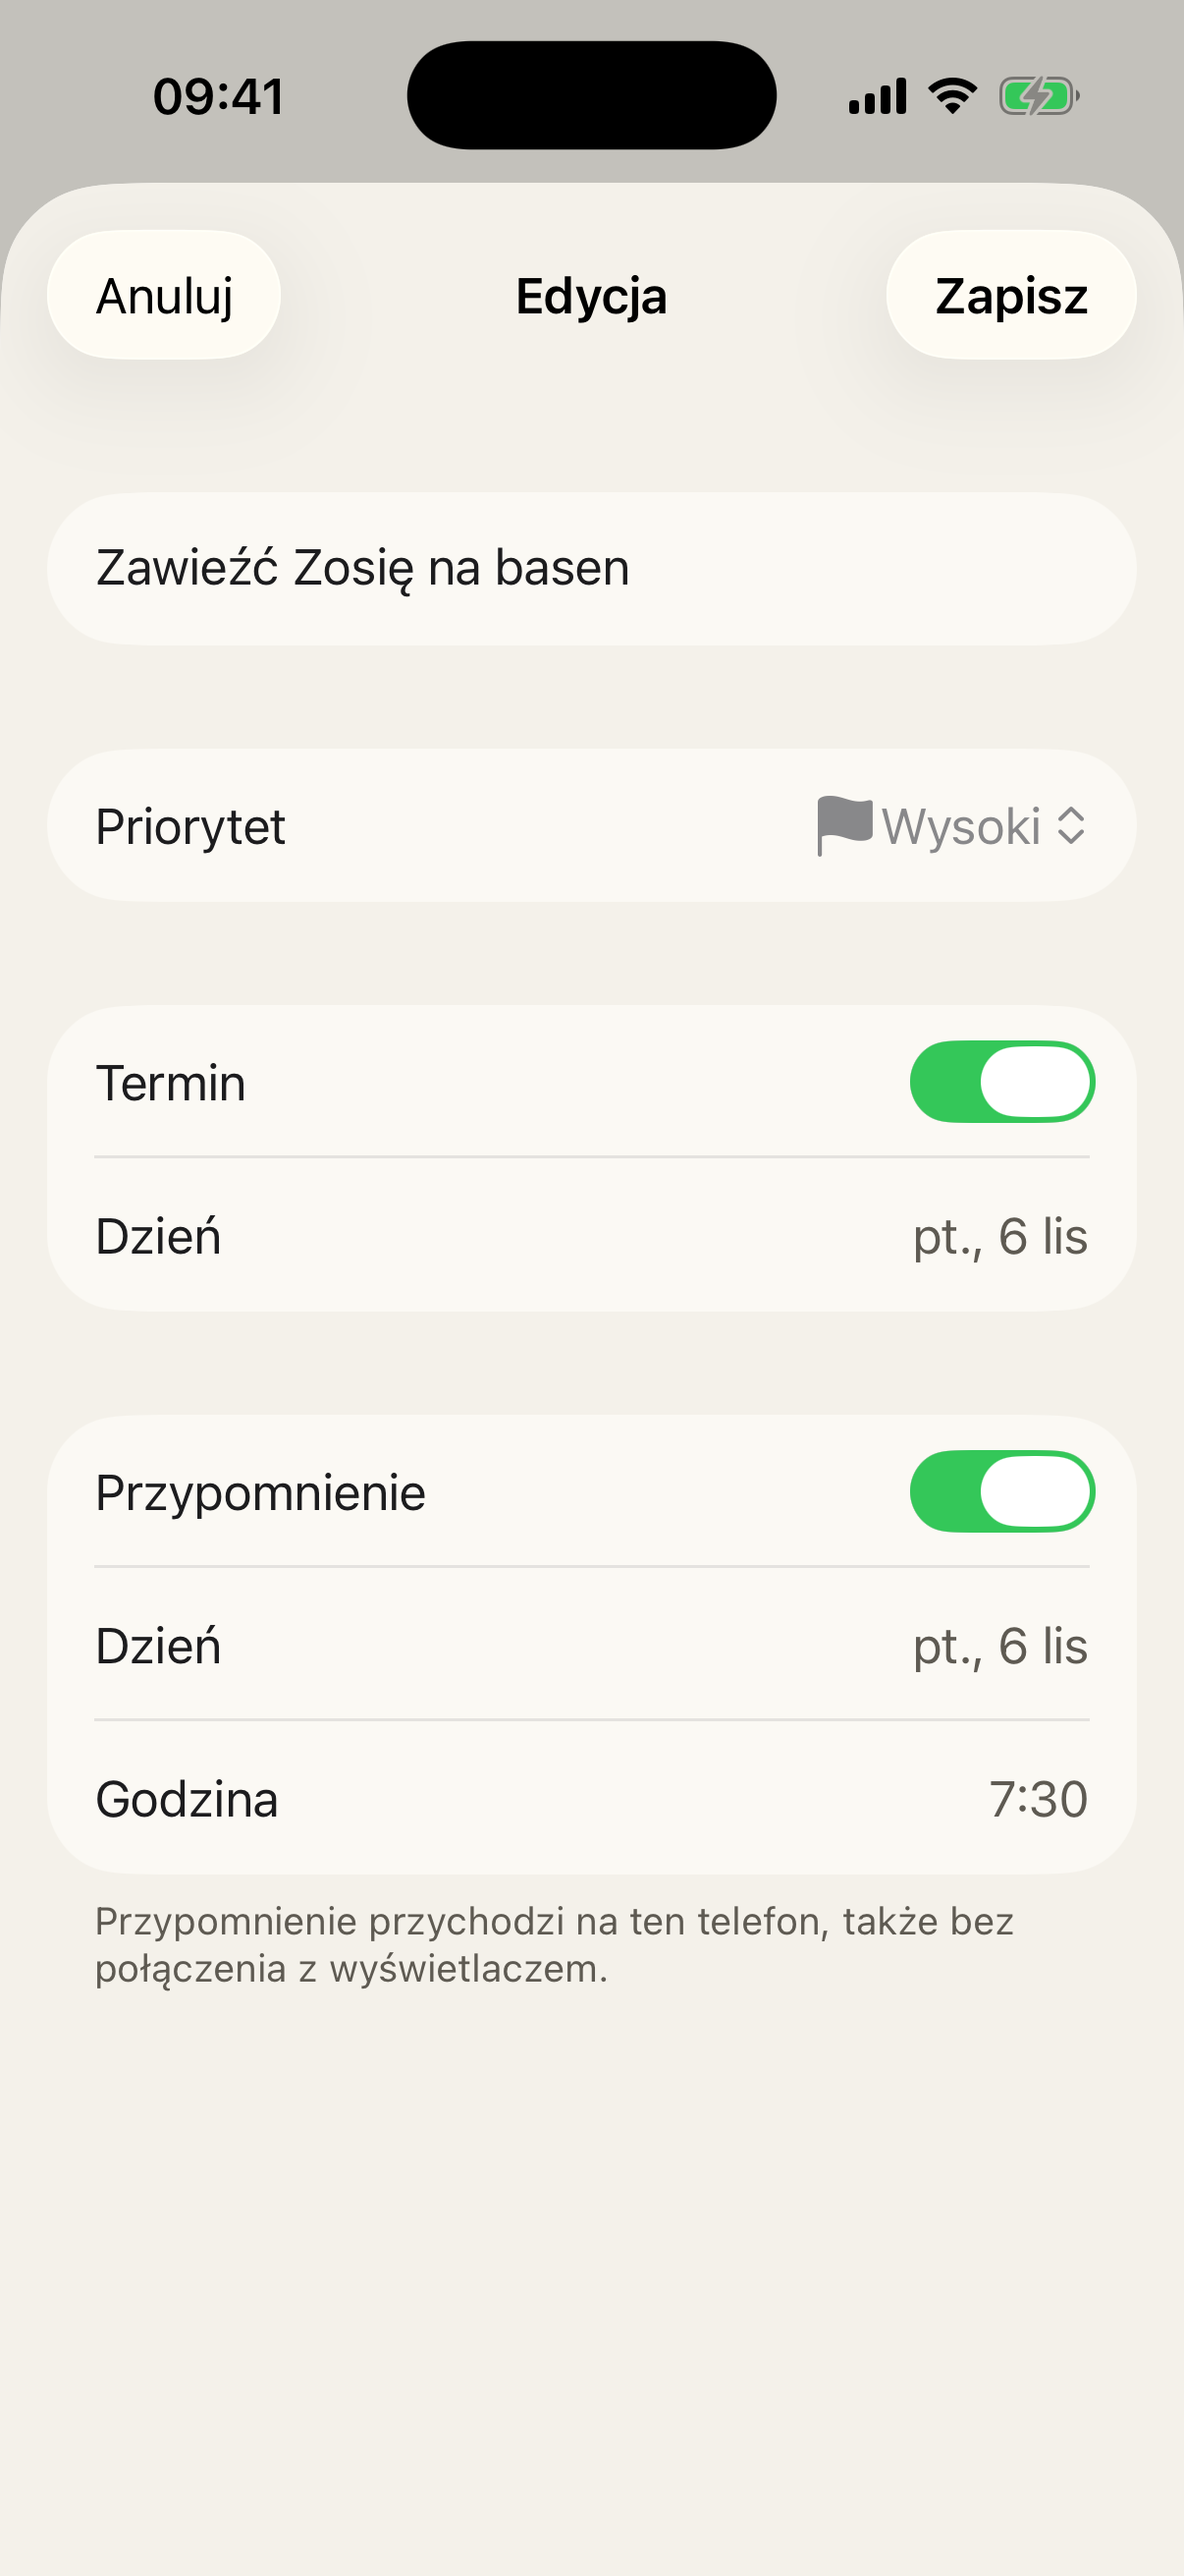
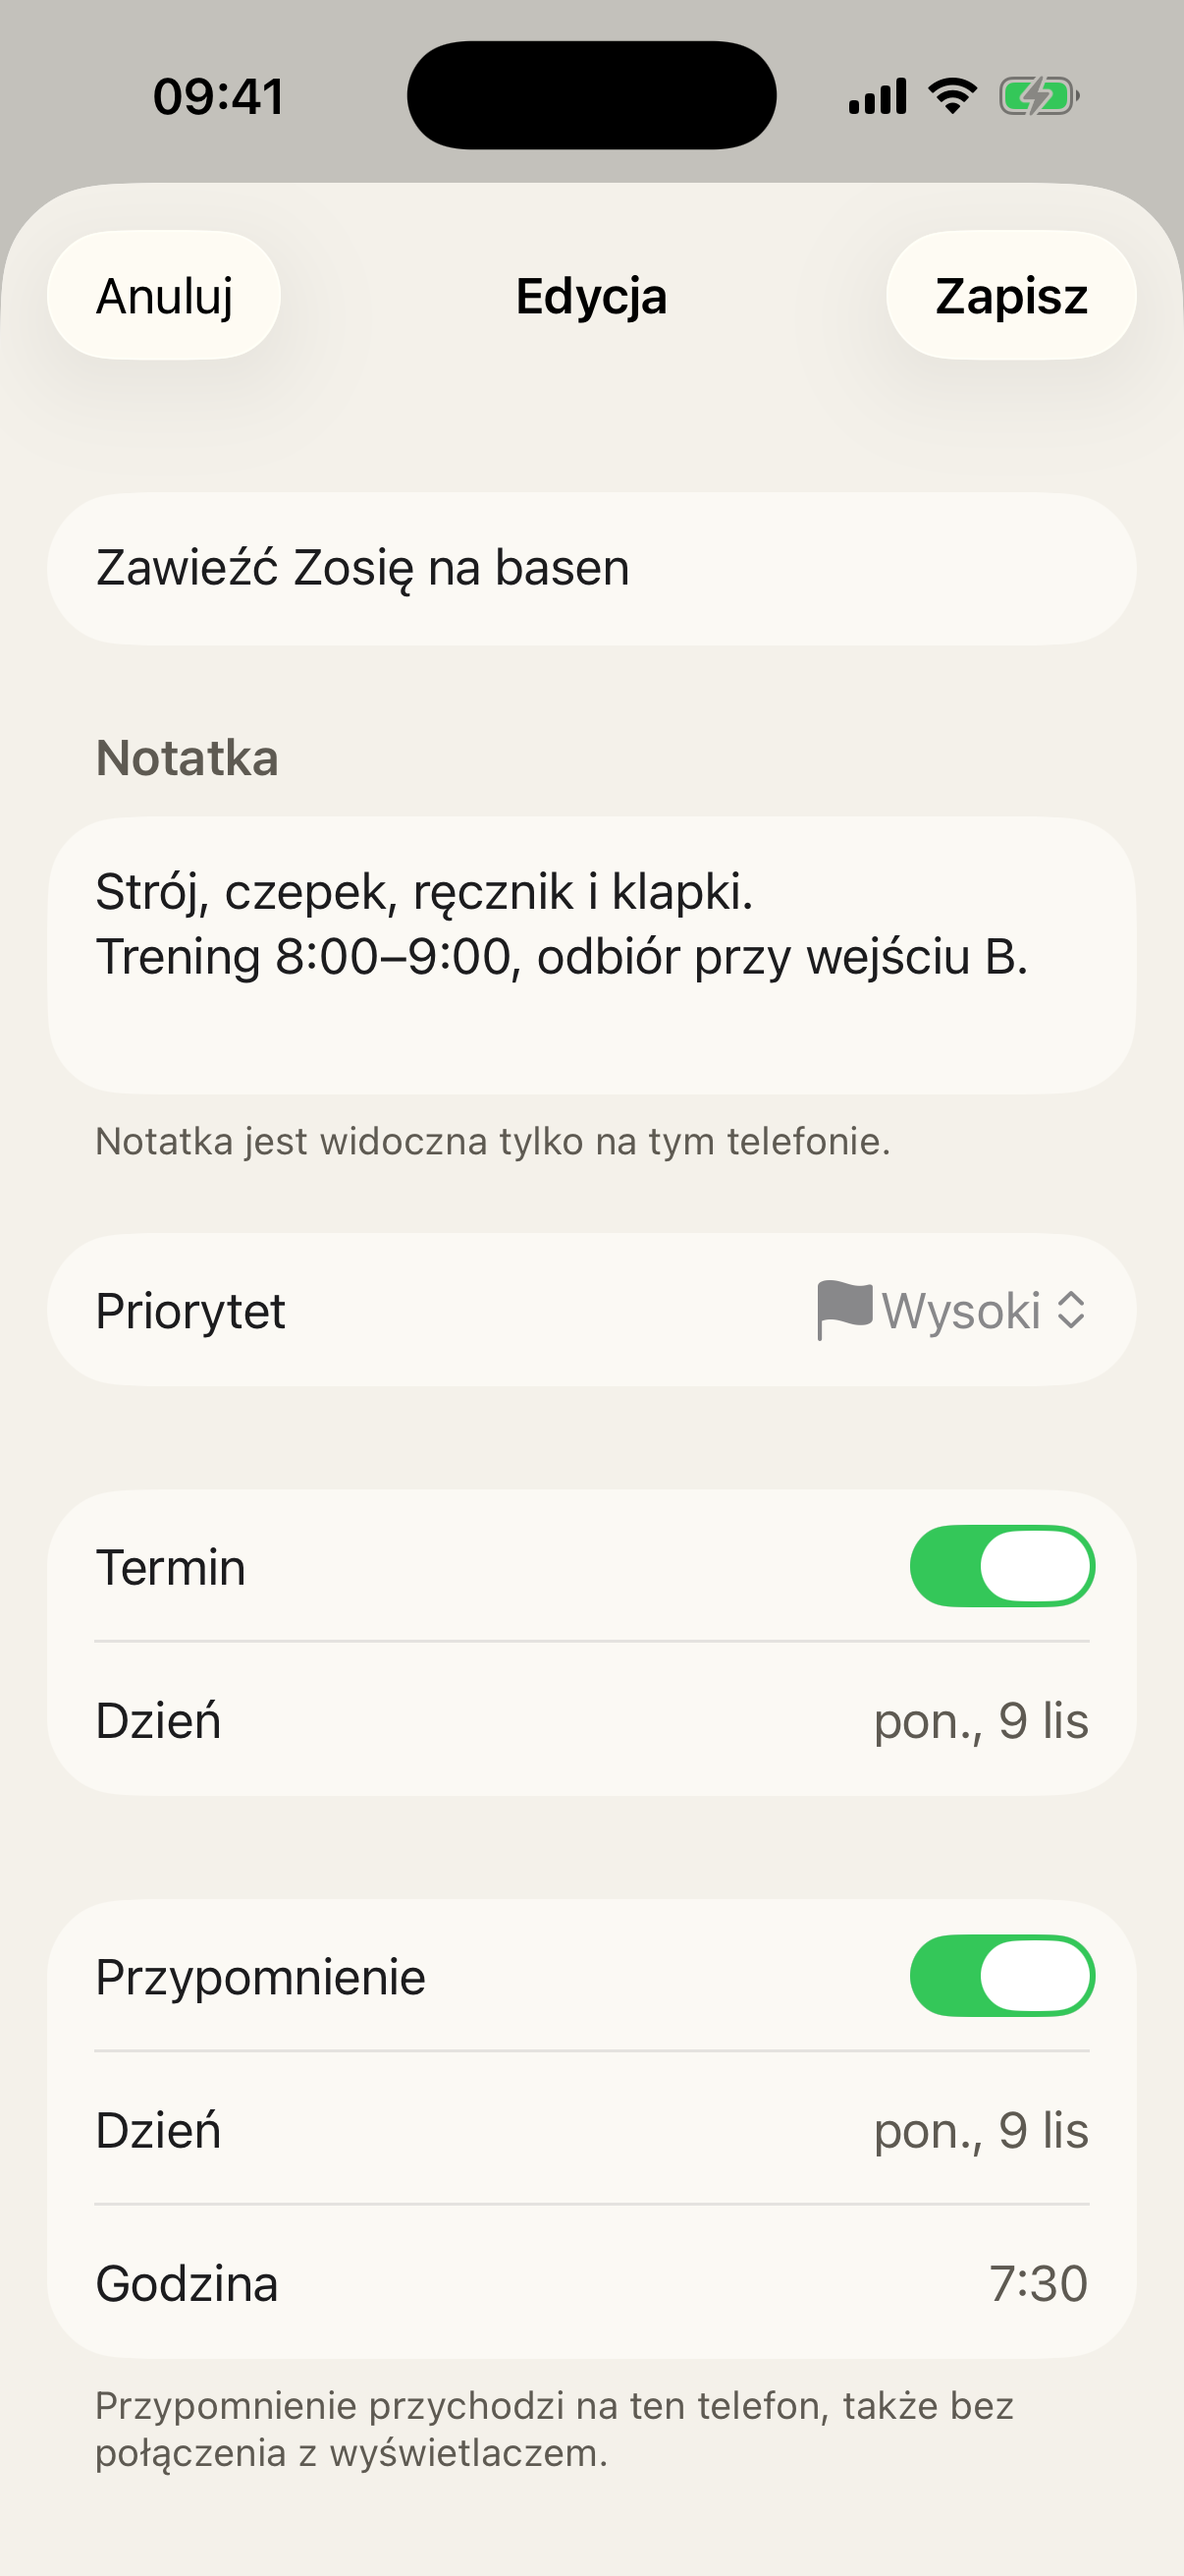
Release materials: notes in texts, privacy policy and screenshots
- Demo data has notes, so the editor screenshot shows the Note field and the
  list shows the note icon; all 20 screenshots regenerated.
- Store description, What's New, privacy policy (notes never leave the phone),
  support FAQ and README mention private notes.
- make_screenshots.sh waits longer and relaunches the app if it is not running.

diff --git a/ios/FamilyTodo/DemoData.swift b/ios/FamilyTodo/DemoData.swift
@@ -36,8 +36,11 @@ enum DemoData {
 
         let mine = try! TaskRepository(userId: "demo-anna", storage: storage, now: now)
         clock = day(0, 8)
-        _ = try! mine.create(title: text[3], priority: .high, dueAt: day(1, 9), reminderAt: day(1, 7, 30))
-        _ = try! mine.create(title: text[4], priority: .normal, dueAt: day(0, 17), reminderAt: day(0, 16, 30))
+        let notes = english ? englishNotes : polishNotes
+        _ = try! mine.create(
+            title: text[3], note: notes[0], priority: .high, dueAt: day(1, 9), reminderAt: day(1, 7, 30))
+        _ = try! mine.create(
+            title: text[4], note: notes[1], priority: .normal, dueAt: day(0, 17), reminderAt: day(0, 16, 30))
         _ = try! mine.create(title: text[5], priority: .normal, dueAt: nil, reminderAt: nil)
         _ = try! mine.create(title: text[6], priority: .low, dueAt: day(5, 12), reminderAt: nil)
         _ = try! mine.create(title: text[7], priority: .low, dueAt: nil, reminderAt: nil)
@@ -63,6 +66,15 @@ enum DemoData {
         "Zawieźć Zosię na basen", "Kupić mleko i chleb", "Zadzwonić do babci",
         "Umyć okna", "Wymienić żarówkę w przedpokoju",
         "Zapłacić rachunek za prąd", "Pranie", "Odkurzyć samochód",
+    ]
+    /// Notatki (tylko w telefonie): do zadania w edytorze i do jednego zadania na liście.
+    static let polishNotes = [
+        "Strój, czepek, ręcznik i klapki.\nTrening 8:00–9:00, odbiór przy wejściu B.",
+        "Mleko 2%, chleb razowy.",
+    ]
+    static let englishNotes = [
+        "Swimsuit, cap, towel and flip-flops.\nPractice 8–9 am, pick-up at entrance B.",
+        "2% milk, wholegrain bread.",
     ]
     static let englishTitles = [
         "Take out the trash", "Pick up the parcel", "Water the plants",

diff --git a/release_apple_store/APP_STORE_INFO.md b/release_apple_store/APP_STORE_INFO.md
@@ -41,6 +41,7 @@ SHARED, BUT SIMPLE
 • Three priorities, shown with the same flag icons on the phone and on the display
 • Due dates and reminders that arrive on your phone even away from home
 • Completed tasks move to a History screen with the time they were done
+• Private notes for the details — a shopping list, an address — kept only on your phone
 
 SYNCS ON ITS OWN
 • Open the app near the display and it syncs over Bluetooth Low Energy — no pairing
@@ -74,6 +75,7 @@ WSPÓLNIE, ALE PROSTO
 • Trzy priorytety z tymi samymi ikonami flag na telefonie i na wyświetlaczu
 • Terminy i przypomnienia, które przychodzą na telefon także poza domem
 • Wykonane zadania trafiają do Historii z godziną wykonania
+• Prywatne notatki ze szczegółami — lista zakupów, adres — zostają tylko na Twoim telefonie
 
 SYNCHRONIZUJE SIĘ SAMA
 • Otwórz aplikację w pobliżu wyświetlacza — zadania przejdą przez Bluetooth Low Energy, bez parowania
@@ -109,8 +111,8 @@ Dostępna po polsku i po angielsku.
 
 ## 5. What's New (1.0)
 
-- **EN:** `First release: shared family tasks with priorities, due dates and reminders, task history, Bluetooth sync with the e-paper display, family key via QR code. English and Polish.`
-- **PL:** `Pierwsze wydanie: wspólne zadania rodziny z priorytetami, terminami i przypomnieniami, historia zadań, synchronizacja z wyświetlaczem e-papierowym przez Bluetooth, klucz rodziny przez kod QR. Po polsku i po angielsku.`
+- **EN:** `First release: shared family tasks with priorities, due dates and reminders, private notes, task history, Bluetooth sync with the e-paper display, family key via QR code. English and Polish.`
+- **PL:** `Pierwsze wydanie: wspólne zadania rodziny z priorytetami, terminami i przypomnieniami, prywatne notatki, historia zadań, synchronizacja z wyświetlaczem e-papierowym przez Bluetooth, klucz rodziny przez kod QR. Po polsku i po angielsku.`
 
 ---
 
@@ -139,8 +141,8 @@ Upload `<size>/en/` to **English (U.S.)** and `<size>/pl/` to **Polish**, in fil
 
 | # | File | Shows | Optional caption EN / PL |
 |---|---|---|---|
-| 1 | `01_list.png` | Task list with priorities, due dates, reminders | Your family's tasks at a glance / Zadania całej rodziny w jednym miejscu |
-| 2 | `02_editor.png` | Editing a task: priority, due date, reminder | Due dates and reminders / Terminy i przypomnienia |
+| 1 | `01_list.png` | Task list with priorities, due dates, reminders, note icon | Your family's tasks at a glance / Zadania całej rodziny w jednym miejscu |
+| 2 | `02_editor.png` | Editing a task: note, priority, due date, reminder | Notes, due dates and reminders / Notatki, terminy i przypomnienia |
 | 3 | `03_history.png` | History of completed tasks | See what got done / Zobacz, co już zrobione |
 | 4 | `04_settings.png` | Family key QR code for a family member | Share the key with a QR code / Przekaż klucz kodem QR |
 | 5 | `05_setup.png` | First launch: name and family key | Set up in seconds / Gotowe w kilka sekund |
@@ -156,7 +158,7 @@ Recommended addition: a photo of the real display as the first screenshot (cropp
 | Do you or your third-party partners collect data from this app? | **No, we do not collect data from this app** |
 | Tracking | No |
 
-Reasoning: tasks, names and the family key never leave the user's devices (iPhone ↔ display over local BLE). No analytics, no crash reporting SDK, no network requests.
+Reasoning: tasks, names and the family key never leave the user's devices, and notes never leave the phone (iPhone ↔ display over local BLE). No analytics, no crash reporting SDK, no network requests.
 
 ## 9. Age rating
 
@@ -170,36 +172,9 @@ All content questions: **None / No** (no user-generated content shared publicly,
 
 ## 11. App Review information
 
-| Field | Value |
-|---|---|
-| Sign-in required | No |
-| Contact | Marek Piotrowski · e-mail · phone (fill in App Store Connect) |
-| Attachment | **Demo video** of the app syncing with the display (record before submitting — see below) |
+Notes for the reviewer, contact fields and the attachment: **[`REVIEW_NOTES.md`](REVIEW_NOTES.md)**.
 
-### Notes for the reviewer (paste as is)
-
-```
-Family To-Do is the companion app for an open-source DIY e-paper display (ESP32-S3), documented at https://github.com/marekpiotrowskimp/family-todo-epaper. The hardware is not sold; users build it themselves.
-
-The app is fully usable without the hardware:
-1. Launch the app, enter any name, leave "Family key" empty and tap Continue.
-2. Add tasks with +, set priority, due date and a reminder; swipe right to mark done, left to delete.
-3. Completed tasks appear under History (clock icon).
-
-To see the family-key flow, paste this test key on the Welcome screen or in Settings (gear icon):
-familytodo://key?k=659bff0319594c91a0e038aee876c2559a19c62eac3eafa2276b0f2cc1ae0464
-Settings then shows the key as a QR code that a family member scans with the Camera app.
-
-Sync with the display uses Bluetooth Low Energy only when the display is in range; without it, tapping Sync shows "Cannot connect to the display". The attached video shows syncing with a real display.
-
-No account, no server, no data collection. Bluetooth is used only to talk to the user's own display.
-```
-
-The test key above is not used by any real display (it is safe to publish).
-
-### Demo video (to record)
-
-30–60 s, portrait, from a second phone/camera: open the app next to the display → add a task → display refreshes with the new task → mark it done → task disappears from the display. Upload as App Review attachment.
+Demo video with the real display (unlisted YouTube link in the notes): record the shots from [`review_video/SHOT_LIST.md`](review_video/SHOT_LIST.md), build it with `review_video/make_review_video.sh`, upload with the texts from [`review_video/YOUTUBE.md`](review_video/YOUTUBE.md).
 
 ---
 
@@ -216,5 +191,5 @@ The test key above is not used by any real display (it is safe to publish).
      -destination 'generic/platform=iOS' -archivePath build/FamilyTodo.xcarchive -allowProvisioningUpdates archive
    open build/FamilyTodo.xcarchive   # Xcode Organizer → Distribute App → App Store Connect
    ```
-7. [ ] Record and attach the demo video (section 11).
+7. [ ] Record the demo video, upload it to YouTube as Unlisted and put the link in the review notes (section 11).
 8. [ ] Select the build, **Add for Review**, submit.

diff --git a/release_apple_store/PRIVACY.md b/release_apple_store/PRIVACY.md
@@ -1,6 +1,6 @@
 # Privacy Policy — Family To-Do for E-Paper
 
-*Effective: 5 November 2026 · [Polska wersja poniżej](#polityka-prywatności)*
+*Effective: 8 November 2026 · [Polska wersja poniżej](#polityka-prywatności)*
 
 Family To-Do for E-Paper ("the app") is developed by Marek Piotrowski as an open-source project.
 
@@ -13,6 +13,7 @@ Family To-Do for E-Paper ("the app") is developed by Marek Piotrowski as an open
 | Data | Where it is stored | Leaves your phone? |
 |---|---|---|
 | Tasks (title, priority, due date, reminder, completion time) | On your iPhone (app storage) | Only to **your own** e-paper display, over Bluetooth Low Energy, when it is in range |
+| Notes on tasks | On your iPhone (app storage) | No — notes are never sent to the display or to other phones |
 | Your display name | On your iPhone | Only to your own display, so it can show whose task it is |
 | Family key | iPhone Keychain (this device only, not in iCloud) | Never transmitted; it is used to sign the connection to the display |
 | Reminders | Local notifications scheduled on your iPhone | No |
@@ -31,7 +32,7 @@ The app is not directed at children and does not knowingly collect data from any
 
 ## Deleting your data
 
-Delete the app to remove all tasks, your name and the family key from the phone. Data on the display is removed by reflashing or erasing it.
+Delete the app to remove all tasks, notes, your name and the family key from the phone. Data on the display is removed by reflashing or erasing it.
 
 ## Changes and contact
 
@@ -42,7 +43,7 @@ Questions: [open an issue](https://github.com/marekpiotrowskimp/family-todo-epap
 
 # Polityka prywatności
 
-*Obowiązuje od: 5 listopada 2026*
+*Obowiązuje od: 8 listopada 2026*
 
 Aplikacja Zadania rodziny na e-papier („aplikacja”) jest otwartym projektem Marka Piotrowskiego.
 
@@ -55,6 +56,7 @@ Aplikacja Zadania rodziny na e-papier („aplikacja”) jest otwartym projektem 
 | Dane | Gdzie | Czy opuszczają telefon? |
 |---|---|---|
 | Zadania (tytuł, priorytet, termin, przypomnienie, czas wykonania) | Na iPhonie (pamięć aplikacji) | Tylko do **Twojego** wyświetlacza e-papierowego, przez Bluetooth Low Energy, gdy jest w zasięgu |
+| Notatki do zadań | Na iPhonie (pamięć aplikacji) | Nie — notatki nigdy nie są wysyłane do wyświetlacza ani na inne telefony |
 | Twoje imię | Na iPhonie | Tylko do Twojego wyświetlacza, żeby pokazać, czyje jest zadanie |
 | Klucz rodziny | Pęk kluczy iPhone'a (tylko to urządzenie, bez iCloud) | Nigdy nie jest wysyłany; służy do podpisania połączenia z wyświetlaczem |
 | Przypomnienia | Lokalne powiadomienia na iPhonie | Nie |
@@ -73,7 +75,7 @@ Aplikacja nie jest skierowana do dzieci i świadomie nie zbiera niczyich danych.
 
 ## Usuwanie danych
 
-Usunięcie aplikacji usuwa z telefonu wszystkie zadania, imię i klucz rodziny. Dane na wyświetlaczu usuwa się, wgrywając firmware ponownie lub kasując pamięć urządzenia.
+Usunięcie aplikacji usuwa z telefonu wszystkie zadania, notatki, imię i klucz rodziny. Dane na wyświetlaczu usuwa się, wgrywając firmware ponownie lub kasując pamięć urządzenia.
 
 ## Zmiany i kontakt
 

diff --git a/README.md b/README.md
@@ -14,6 +14,7 @@ Requirements (in Polish): [`specyfikacja_systemu_todo.md`](specyfikacja_systemu_
 | iOS | completed tasks move to a History screen showing the local completion time; day and time are edited in inline panels |
 | iOS | family key entered in the app (QR code / link / paste), kept in the Keychain — one App Store build works with any display; Polish and English UI |
 | iOS | local reminders at the set time, even without a connection to the display (only on the task owner's phone) |
+| iOS | private notes on any task (up to 2048 B UTF-8, ≥ 1024 characters): kept only on the phone that wrote them, never sent to the display or other phones; a note icon marks such tasks |
 | iOS ↔ ESP32 | no pairing: the open app discovers the display within BLE range and syncs on its own (short connection, send own changes, fetch others', disconnect); the "Sync" button forces it immediately |
 | ESP32 | persistent task list (LittleFS) that survives restarts; merging changes from multiple phones (LWW) |
 | e-paper | up to 9 tasks, no header: priority ↓, due date ↑; **every person with an active task gets at least one row**; with more than 9 people, pages rotate every 5 min |
@@ -60,7 +61,7 @@ src/                  firmware: main (loop), ble/gatt (GATT server), storage/fla
                       BLE frames, SyncSession (protocol), RefreshScheduler
 ```
 
-Task model: `id, ownerId, title (≤120 B UTF-8), priority (0..2), dueAt?, status, reminderAt?, createdAt, updatedAt, updatedBy, deleted`. Times are in ms since the Unix epoch.
+Task model: `id, ownerId, title (≤120 B UTF-8), priority (0..2), dueAt?, status, reminderAt?, createdAt, updatedAt, updatedBy, deleted`. Times are in ms since the Unix epoch. Notes are not part of the task model: the app keeps them in its own `tasks.json` next to the tasks.
 
 ### Merging
 - The version with the newer `updatedAt` wins. On a tie the larger `updatedBy` wins, so every device reaches the same result.

diff --git a/release_apple_store/SUPPORT.md b/release_apple_store/SUPPORT.md
@@ -22,6 +22,9 @@ Sync works only while the app is open and the display is within Bluetooth range 
 **Reminders do not appear.**
 Allow notifications for the app in iOS Settings → Notifications. Reminders arrive only on the phone of the task's owner.
 
+**My family does not see my note.**
+That is by design: notes are private and stay on the phone where you wrote them. Put anything the whole family should see in the task title.
+
 **How do I remove my data?**
 Delete the app. See the [privacy policy](PRIVACY.md).
 
@@ -42,6 +45,9 @@ Klucz w aplikacji nie pasuje do firmware. Wpisz klucz ponownie (Ustawienia → Z
 
 **Aplikacja się nie synchronizuje.**
 Synchronizacja działa, gdy aplikacja jest otwarta, a wyświetlacz jest w zasięgu Bluetooth (kilka metrów). Sprawdź, czy Bluetooth jest włączony i dozwolony dla aplikacji, i stuknij przycisk synchronizacji.
+
+**Domownicy nie widzą mojej notatki.**
+Tak ma być: notatki są prywatne i zostają na telefonie, na którym je zapisano. To, co ma zobaczyć cała rodzina, wpisz w tytule zadania.
 
 **Nie przychodzą przypomnienia.**
 Zezwól na powiadomienia w Ustawieniach iOS. Przypomnienie przychodzi tylko na telefon właściciela zadania.
